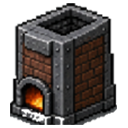
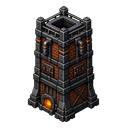
Tune coke oven and blast furnace guidance

diff --git a/src/game/content.ts b/src/game/content.ts
@@ -2609,24 +2609,24 @@ export const processRecipes: ProcessRecipe[] = [
   {
     id: 'coke_log',
     name: 'Coke Logs',
-    description: 'Bake logs into charcoal and collect a small creosote trickle.',
+    description: 'Bake logs into charcoal faster, with only a modest creosote trickle.',
     tier: 'steam',
     machineId: 'cokeOven',
-    durationMs: 45000,
+    durationMs: 30000,
     input: { id: 'log', amount: 1 },
     output: { id: 'charcoal', amount: 1 },
-    fluidOutput: { id: 'creosote', amount: 16 },
+    fluidOutput: { id: 'creosote', amount: 8 },
   },
   {
     id: 'coke_coal',
     name: 'Coke Coal',
-    description: 'Bake coal into coal coke and collect creosote for the first fluid work.',
+    description: 'Bake coal into coal coke faster, trading speed for a smaller creosote draw.',
     tier: 'steam',
     machineId: 'cokeOven',
-    durationMs: 60000,
+    durationMs: 40000,
     input: { id: 'coal', amount: 1 },
     output: { id: 'coalCoke', amount: 1 },
-    fluidOutput: { id: 'creosote', amount: 32 },
+    fluidOutput: { id: 'creosote', amount: 16 },
   },
   {
     id: 'steam_hammer_copper_plate',
@@ -3673,7 +3673,7 @@ export const processRecipes: ProcessRecipe[] = [
     description: 'Coal coke drives the fastest early one-ingot steel heat.',
     tier: 'steam',
     machineId: 'brickedBlastFurnace',
-    durationMs: 25000,
+    durationMs: 50000,
     input: { id: 'ironIngot', amount: 1 },
     fuelInput: { id: 'coalCoke', amount: 1 },
     output: { id: 'steelIngot', amount: 1 },
@@ -3684,7 +3684,7 @@ export const processRecipes: ProcessRecipe[] = [
     description: 'Coal can run the blast furnace, but it sits between charcoal and coal coke.',
     tier: 'steam',
     machineId: 'brickedBlastFurnace',
-    durationMs: 35000,
+    durationMs: 70000,
     input: { id: 'ironIngot', amount: 1 },
     fuelInput: { id: 'coal', amount: 1 },
     output: { id: 'steelIngot', amount: 1 },
@@ -3695,7 +3695,7 @@ export const processRecipes: ProcessRecipe[] = [
     description: 'Charcoal can make first steel, but each ingot takes longer.',
     tier: 'steam',
     machineId: 'brickedBlastFurnace',
-    durationMs: 40000,
+    durationMs: 80000,
     input: { id: 'ironIngot', amount: 1 },
     fuelInput: { id: 'charcoal', amount: 1 },
     output: { id: 'steelIngot', amount: 1 },
@@ -3895,6 +3895,24 @@ export const quests: Quest[] = [
     rewards: {},
   },
   {
+    id: 'craftShovelQuest',
+    chapterId: 'gettingStarted',
+    chapter: 'Getting Started',
+    title: 'Shape a shovel',
+    description: 'A shovel is not just a faster tool: it unlocks loose ground targets. Use it at the lake edge for clay and sand, and on gravel when you need flint or later aluminium traces.',
+    kind: 'optional',
+    position: { x: 640, y: 390 },
+    icon: { type: 'resource', id: 'woodenShovel' },
+    prerequisites: ['craftSticks'],
+    requirements: {
+      resources: [
+        { id: 'woodenShovel', amount: 1 },
+        { id: 'gravel', amount: 1 },
+      ],
+    },
+    rewards: {},
+  },
+  {
     id: 'buildFurnace',
     chapterId: 'stoneAndFire',
     chapter: 'Stone & Fire',
@@ -3991,7 +4009,7 @@ export const quests: Quest[] = [
     chapterId: 'stoneAndFire',
     chapter: 'Stone & Fire',
     title: 'Fire the first bricks',
-    description: 'Clay bricks become the backbone of early water and coke processing.',
+    description: 'Clay bricks become the backbone of early water and coke processing. If clay or sand feels missing, make and equip a shovel; it opens those lake-edge targets.',
     position: { x: 610, y: 290 },
     icon: { type: 'resource', id: 'brick' },
     prerequisites: ['gatherClay', 'buildFurnace'],
@@ -4064,7 +4082,7 @@ export const quests: Quest[] = [
     chapterId: 'steamAge',
     chapter: 'Steam Age',
     title: 'Route steam into storage',
-    description: 'A tank and copper pipes turn one boiler into a small network. This is enough to feed the first focused machines.',
+    description: 'A tank and copper pipes turn one boiler into a small network. Pipes only move through sides you configure, so the wrench becomes part of the machine, not just a crafting ingredient.',
     position: { x: 430, y: 140 },
     icon: { type: 'machine', id: 'steamTank' },
     prerequisites: ['makeSteam'],
@@ -4072,6 +4090,24 @@ export const quests: Quest[] = [
       machines: [
         { id: 'steamTank', amount: 1 },
         { id: 'copperPipe', amount: 4 },
+      ],
+    },
+    rewards: {},
+  },
+  {
+    id: 'factoryToolsQuest',
+    chapterId: 'steamAge',
+    chapter: 'Steam Age',
+    title: 'Pack factory tools',
+    description: 'Factory tools change placed blocks: the wrench sets pipe and hopper sides, while the crowbar pulls machines back up. Keep both nearby before rebuilding a layout.',
+    kind: 'optional',
+    position: { x: 595, y: 340 },
+    icon: { type: 'resource', id: 'bronzeWrench' },
+    prerequisites: ['pipeSteam'],
+    requirements: {
+      resources: [
+        { id: 'bronzeWrench', amount: 1 },
+        { id: 'ironCrowbar', amount: 1 },
       ],
     },
     rewards: {},

diff --git a/src/game/engine.test.ts b/src/game/engine.test.ts
@@ -2534,14 +2534,14 @@ describe('game engine', () => {
     const tank = state.machineInstances.find((instance) => instance.machineId === 'steamTank')!
     state = insertProcessSlot(state, cokeOven.uid, 'input', 'log', 1)
 
-    state = tickGame(state, 45000).state
+    state = tickGame(state, 30000).state
     state = tickGame(state, 1000).state
 
     const ovenProcess = state.machineInstances.find((instance) => instance.uid === cokeOven.uid)!.process
     const tankProcess = state.machineInstances.find((instance) => instance.uid === tank.uid)!.process
     expect(ovenProcess.output).toEqual({ id: 'charcoal', amount: 1 })
     expect(ovenProcess.fluids.creosote ?? 0).toBe(0)
-    expect(tankProcess.fluids.creosote).toBe(16)
+    expect(tankProcess.fluids.creosote).toBe(8)
   })
 
   it('reports current liquid output flow through connected pipes', () => {
@@ -2707,7 +2707,7 @@ describe('game engine', () => {
     cokeOven.process.fluidCapacityLitres = cokeOvenFluidCapacityLitres
     state = insertProcessSlot(state, cokeOven.uid, 'input', 'log', 1)
 
-    state = tickGame(state, 45000).state
+    state = tickGame(state, 30000).state
 
     const process = state.machineInstances.find((instance) => instance.uid === cokeOven.uid)!.process
     expect(process.input).toEqual({ id: 'log', amount: 1 })
@@ -2763,7 +2763,7 @@ describe('game engine', () => {
     state = insertProcessSlot(state, blastFurnace.uid, 'input', 'ironIngot', 1)
     state = insertProcessSlot(state, blastFurnace.uid, 'fuel', 'coalCoke', 1)
 
-    state = tickGame(state, 25000).state
+    state = tickGame(state, 50000).state
 
     expect(state.machineInstances.find((instance) => instance.uid === blastFurnace.uid)!.process.output).toEqual({ id: 'steelIngot', amount: 1 })
   })
@@ -2781,9 +2781,9 @@ describe('game engine', () => {
     expect(charcoalRecipe.input).toEqual({ id: 'ironIngot', amount: 1 })
     expect(charcoalRecipe.fuelInput).toEqual({ id: 'charcoal', amount: 1 })
     expect(charcoalRecipe.output).toEqual({ id: 'steelIngot', amount: 1 })
-    expect(charcoalRecipe.durationMs).toBe(40000)
-    expect(coalRecipe.durationMs).toBe(35000)
-    expect(coalCokeRecipe.durationMs).toBe(25000)
+    expect(charcoalRecipe.durationMs).toBe(80000)
+    expect(coalRecipe.durationMs).toBe(70000)
+    expect(coalCokeRecipe.durationMs).toBe(50000)
   })
 
   it('makes steel plates from steel ingots with hammer recipes', () => {

diff --git a/src/App.tsx b/src/App.tsx
@@ -391,6 +391,7 @@ const questPositionOverrides: Partial<Record<QuestId, { x: number; y: number }>>
   craftAxe: { x: 595, y: 70 },
   chopFaster: { x: 770, y: 70 },
   mineStone: { x: 595, y: 250 },
+  craftShovelQuest: { x: 770, y: 390 },
   buildFurnace: { x: 770, y: 210 },
   craftMortar: { x: 770, y: 330 },
   firstDirt: { x: 945, y: 270 },
@@ -403,6 +404,7 @@ const questPositionOverrides: Partial<Record<QuestId, { x: number; y: number }>>
   craftSteamCasingQuest: { x: 245, y: 200 },
   makeSteam: { x: 420, y: 200 },
   pipeSteam: { x: 595, y: 200 },
+  factoryToolsQuest: { x: 595, y: 380 },
   steamMaceratorQuest: { x: 770, y: 115 },
   steamForgeHammerQuest: { x: 945, y: 115 },
   steamOrePrepQuest: { x: 945, y: 20 },

diff --git a/src/game/types.ts b/src/game/types.ts
@@ -149,6 +149,7 @@ export type QuestId =
   | 'craftAxe'
   | 'chopFaster'
   | 'mineStone'
+  | 'craftShovelQuest'
   | 'buildFurnace'
   | 'craftMortar'
   | 'firstDirt'
@@ -161,6 +162,7 @@ export type QuestId =
   | 'craftSteamCasingQuest'
   | 'makeSteam'
   | 'pipeSteam'
+  | 'factoryToolsQuest'
   | 'steamMaceratorQuest'
   | 'steamForgeHammerQuest'
   | 'steamOrePrepQuest'